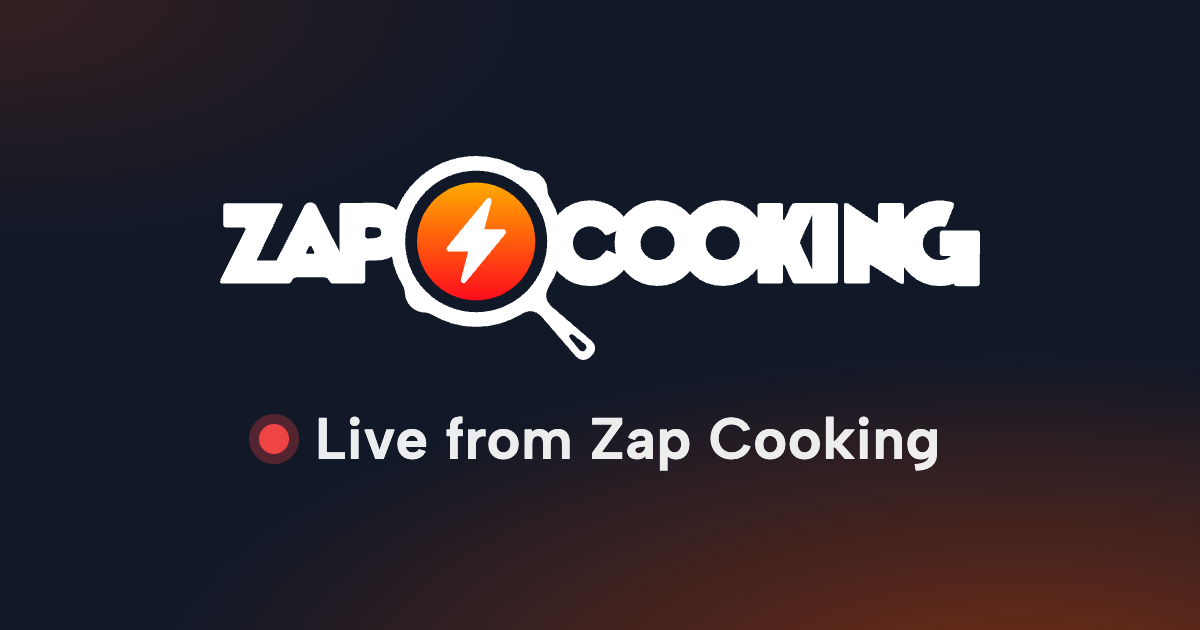
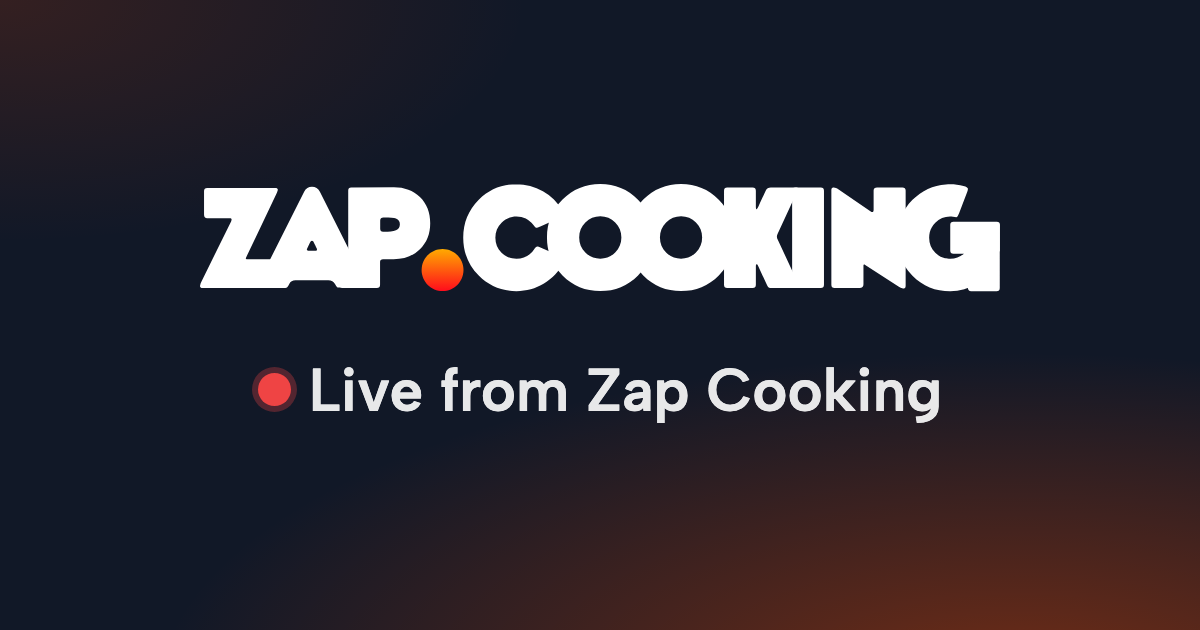
fix(live): use the current wordmark on the live share card and stream tile (#981)
The Go live share image and the fallback stream tile still showed the
old ring-O logo. Redraw live-share.png with the current ZAP.COOKING
wordmark (orange dot), the same artwork as the header and
social-share.png, and point LiveFallbackArt at zapcooking-text-dark.svg.
Same 1200x630 size, layout and tagline.

Changed region(s): [[0.1542, 0.2413, 0.8325, 0.573], [0.185, 0.573, 0.8017, 0.754]]

diff --git a/src/components/streams/LiveFallbackArt.svelte b/src/components/streams/LiveFallbackArt.svelte
@@ -11,7 +11,7 @@
 
 <div class="live-art @container absolute inset-0 flex flex-col items-center justify-center">
   <img
-    src="/zap_cooking_logo_white.svg"
+    src="/zapcooking-text-dark.svg"
     alt="Zap Cooking"
     class="live-art-logo h-auto select-none"
     draggable="false"
